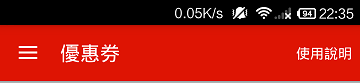
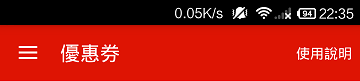
bug fixed

diff --git a/offpic/index3.html b/offpic/index3.html
@@ -78,7 +78,7 @@
     position: relative;
     right: -318px;
     text-align: right;
-    top: 4px;
+    top: 6px;
     width: 39px;
 	
   }
@@ -143,7 +143,7 @@ $('<img class="clickC" src="menu_foot.png" style="margin-left: 4px;" />').attr('
  setInterval(function(){
   var countDiv = document.getElementById('counttime');
   ct = parseInt(ct,10) >0 ?("0"+(ct -1)).slice(-2):59;
-  countDiv.innerHTML = "優惠倒數  01 : " +ct;
+  countDiv.innerHTML = "優惠倒數　01 : " +ct;
   setNowTime();
  },1000);
 </script>
